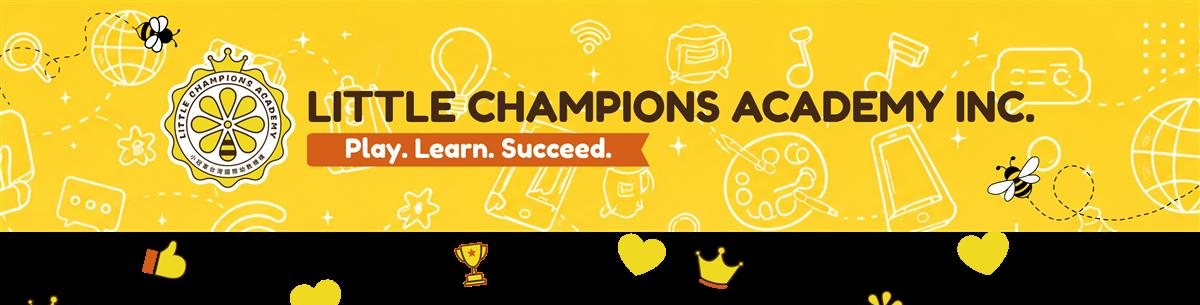
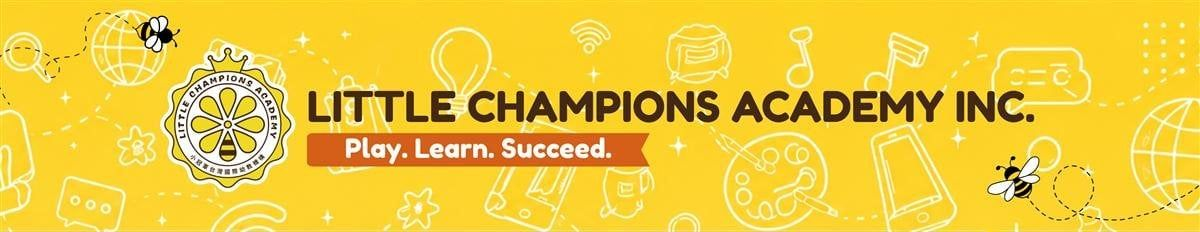
Updated the email message bg format 1.3

diff --git a/backend/utils/firstEnrollmentWelcomeEmail/emailBodies.js b/backend/utils/firstEnrollmentWelcomeEmail/emailBodies.js
@@ -5,9 +5,9 @@
  */
 import {
   escapeHtml,
+  getWelcomeEmailBackgroundUrl,
   plainTextToEmailHtml,
   wrapBrandedEmailHtml,
-  wrapWelcomePageEmailHtml,
 } from '../templateRenderService.js';
 import { groupChatFallbackText } from './branchGroupChat.js';
 
@@ -51,30 +51,10 @@ export function facebookPageUrl() {
 }
 
 /**
- * Minimal plain-text fallback for clients that strip HTML.
- * The designed welcome letter is the full-page image in the HTML body.
+ * Combined welcome letter. Academic year, first-day date, and class schedule
+ * come from the enrolled class when the send path supplies them.
  */
 export function buildOnboardingPlainText({
-  includeArAttachmentNote = false,
-} = {}) {
-  const lines = [
-    'Welcome to Little Champions Academy!',
-    '',
-    'Open this email in an HTML email client to view the welcome letter.',
-  ];
-
-  if (includeArAttachmentNote) {
-    lines.push(
-      '',
-      'Your acknowledgement receipt is attached to this email as a PDF for your records.'
-    );
-  }
-
-  return lines.join('\n');
-}
-
-/** @deprecated Long combined text body — retained for reference / legacy previews only. */
-export function buildLegacyCombinedOnboardingPlainText({
   academicYear,
   includeArAttachmentNote = false,
   classStartDateDisplay = 'To be announced',
@@ -317,11 +297,90 @@ export function buildFirstEnrollmentWelcomeHtml(options = {}) {
   return buildOnboardingHtml(options);
 }
 
+function nl2br(value) {
+  return escapeHtml(value).replace(/\n/g, '<br/>');
+}
+
 /**
- * Welcome email HTML: full-page image of LCA EMAIL.pdf (not PDF attachment).
+ * Welcome email HTML: letterhead image + letter text.
+ * Academic year, date, and class schedule are real text (not baked into the JPEG),
+ * so they follow the enrolled class.
  */
-export function buildOnboardingHtml(_options = {}) {
-  return wrapWelcomePageEmailHtml();
+export function buildOnboardingHtml({
+  academicYear,
+  includeArAttachmentNote = false,
+  classStartDateDisplay = 'To be announced',
+  classScheduleText = 'Please contact your branch for your class schedule.',
+  facebookUrl = facebookPageUrl(),
+  groupChatUrl = null,
+  groupChatLabel = 'Group Chat',
+} = {}) {
+  const year = escapeHtml(academicYear || academicYearLabel());
+  const dateLabel = escapeHtml(classStartDateDisplay || 'To be announced');
+  const scheduleHtml = nl2br(
+    classScheduleText || 'Please contact your branch for your class schedule.'
+  );
+  const fbUrl = escapeHtml(facebookUrl);
+  const groupChatHtml = groupChatUrl
+    ? `<a href="${escapeHtml(groupChatUrl)}" style="color:#1a56db;text-decoration:underline;">${escapeHtml(groupChatLabel)}</a> (${escapeHtml(groupChatUrl)})`
+    : escapeHtml(groupChatFallbackText());
+  const arNote = includeArAttachmentNote
+    ? `<p style="margin:16px 0 0;color:#111827;line-height:1.5;">Your acknowledgement receipt is attached to this email as a PDF for your records.</p>`
+    : '';
+  const bannerUrl = escapeHtml(getWelcomeEmailBackgroundUrl());
+
+  return `<!DOCTYPE html>
+<html>
+  <head>
+    <meta charset="UTF-8">
+    <meta name="viewport" content="width=device-width, initial-scale=1.0">
+  </head>
+  <body style="margin:0;padding:0;background-color:#f3f4f6;font-family:Arial,Helvetica,sans-serif;color:#111827;">
+    <table role="presentation" width="100%" cellpadding="0" cellspacing="0" style="background-color:#f3f4f6;padding:16px 0;">
+      <tr>
+        <td align="center">
+          <table role="presentation" width="600" cellpadding="0" cellspacing="0" style="width:100%;max-width:600px;background-color:#ffffff;border:1px solid #e5e7eb;">
+            <tr>
+              <td style="padding:0;line-height:0;font-size:0;background-color:#F7C844;">
+                <img src="${bannerUrl}" alt="Little Champions Academy Inc." width="600" style="display:block;width:100%;max-width:600px;height:auto;border:0;" />
+              </td>
+            </tr>
+            <tr>
+              <td style="padding:22px 28px 28px;font-size:14px;line-height:1.55;color:#111827;">
+                <p style="margin:0 0 10px;font-weight:bold;">Congratulations!</p>
+                <p style="margin:0 0 10px;">We are pleased to inform you that your child is officially enrolled at Little Champions Academy Inc. for Academic Year ${year}.</p>
+                <p style="margin:0 0 10px;">We are delighted to welcome you to the Little Champions family! We look forward to partnering with you in creating a meaningful and exciting learning journey filled with opportunities to play, learn, and succeed.</p>
+                <p style="margin:0 0 10px;">Thank you for choosing Little Champions Academy. We are excited to have you with us!</p>
+                <p style="margin:0;">Welcome to Little Champions Academy!</p>
+                ${arNote}
+                <p style="margin:18px 0 10px;border-top:1px solid #111827;"></p>
+                <p style="margin:0 0 8px;font-weight:bold;">FIRST DAY OF SCHOOL</p>
+                <p style="margin:0 0 4px;">Date: ${dateLabel}</p>
+                <p style="margin:0 0 10px;">Class Schedule: ${scheduleHtml}</p>
+                <p style="margin:0 0 10px;">Important: Please arrive at least 10 minutes before your scheduled class time to allow your child sufficient time to settle in and prepare for class.</p>
+                <p style="margin:0;">For dismissal, parents or authorized guardians are requested to arrive 10 minutes before the scheduled end of class to ensure a smooth and orderly pick-up.</p>
+                <p style="margin:18px 0 10px;border-top:1px solid #111827;"></p>
+                <p style="margin:0 0 8px;font-weight:bold;">THINGS TO PREPARE FOR CLASS</p>
+                <p style="margin:0 0 8px;">Please ensure that your child brings the following:</p>
+                <p style="margin:0;">1. Extra set of clothes<br/>2. Hygiene Kit (Wet wipes, alcohol, tissue, soap)<br/>3. Dry, healthy, and nutritious snack<br/>4. A refillable and sealed water bottle labeled with your child’s complete name</p>
+                <p style="margin:18px 0 10px;border-top:1px solid #111827;"></p>
+                <p style="margin:0 0 8px;font-weight:bold;">IMPORTANT REMINDERS</p>
+                <p style="margin:0;">• Please ensure that your child arrives at least 10 minutes before the scheduled class time.<br/>• Please prepare all necessary school items before leaving home to avoid delays.<br/>• Kindly label all personal belongings with your child’s complete name.<br/>• Please ensure that your child is well-rested and prepared to participate in class.<br/>• Please regularly check the official class group chat for announcements, reminders, and other important information.<br/>• Kindly complete the required onboarding requirements before your child’s first day of school.</p>
+                <p style="margin:18px 0 10px;border-top:1px solid #111827;"></p>
+                <p style="margin:0 0 8px;font-weight:bold;">STAY CONNECTED</p>
+                <p style="margin:0 0 8px;">For the latest updates, you can also follow and message our official Facebook page and group chat:</p>
+                <p style="margin:0 0 8px;">Facebook page link: <a href="${fbUrl}" style="color:#1a56db;text-decoration:underline;">Little Champions Academy Inc.</a></p>
+                <p style="margin:0 0 10px;">Group Chat: ${groupChatHtml}</p>
+                <p style="margin:0 0 10px;">Once again, welcome to Little Champions Academy, Inc. We look forward to partnering with you throughout the academic year and supporting your child’s continued learning and development.</p>
+                <p style="margin:0;">Sincerely,<br/>Little Champions Academy, Inc.<br/>Play. Learn. Succeed.</p>
+              </td>
+            </tr>
+          </table>
+        </td>
+      </tr>
+    </table>
+  </body>
+</html>`;
 }
 
 export function buildClassScheduleHtml(context = {}) {

diff --git a/backend/utils/firstEnrollmentWelcomeEmail/defaultTemplates.js b/backend/utils/firstEnrollmentWelcomeEmail/defaultTemplates.js
@@ -18,11 +18,44 @@ export const FIRST_ENROLLMENT_TEMPLATE_KEYS = Object.freeze({
   stay_connected: 'template_first_enrollment_stay_connected',
 });
 
-/** Combined welcome email — body is visual (page image); Settings text is a short fallback note. */
+/** Combined welcome email body (all sections). Send-time HTML is built in emailBodies.js so class fields stay dynamic. */
 export const COMBINED_ONBOARDING_BODY =
-  'Welcome to Little Champions Academy!\n\n' +
-  'Open this email in an HTML email client to view the welcome letter.\n' +
-  '{arAttachmentNote}';
+  'Congratulations!\n\n' +
+  'We are pleased to inform you that your child is officially enrolled at Little Champions Academy Inc. for Academic Year {academicYear}.\n\n' +
+  'We are delighted to welcome you to the Little Champions family! We look forward to partnering with you in creating a meaningful and exciting learning journey filled with opportunities to play, learn, and succeed.\n\n' +
+  'Thank you for choosing Little Champions Academy. We are excited to have you with us!\n\n' +
+  'Welcome to Little Champions Academy!\n' +
+  '{arAttachmentNote}\n\n' +
+  '────────────────────────\n\n' +
+  'FIRST DAY OF SCHOOL\n\n' +
+  'Date: {classStartDate}\n\n' +
+  'Class Schedule: {classSchedule}\n\n' +
+  'Important: Please arrive at least 10 minutes before your scheduled class time to allow your child sufficient time to settle in and prepare for class.\n\n' +
+  'For dismissal, parents or authorized guardians are requested to arrive 10 minutes before the scheduled end of class to ensure a smooth and orderly pick-up.\n\n' +
+  '────────────────────────\n\n' +
+  'THINGS TO PREPARE FOR CLASS\n\n' +
+  'Please ensure that your child brings the following:\n\n' +
+  '1. Extra set of clothes\n\n' +
+  '2. Hygiene Kit (Wet wipes, alcohol, tissue, soap)\n\n' +
+  '3. Dry, healthy, and nutritious snack\n\n' +
+  '4. A refillable and sealed water bottle labeled with your child’s complete name\n\n' +
+  '────────────────────────\n\n' +
+  'IMPORTANT REMINDERS\n\n' +
+  '• Please ensure that your child arrives at least 10 minutes before the scheduled class time.\n\n' +
+  '• Please prepare all necessary school items before leaving home to avoid delays.\n\n' +
+  '• Kindly label all personal belongings with your child’s complete name.\n\n' +
+  '• Please ensure that your child is well-rested and prepared to participate in class.\n\n' +
+  '• Please regularly check the official class group chat for announcements, reminders, and other important information.\n\n' +
+  '• Kindly complete the required onboarding requirements before your child’s first day of school.\n\n' +
+  '────────────────────────\n\n' +
+  'STAY CONNECTED\n\n' +
+  'For the latest updates, you can also follow and message our official Facebook page and group chat:\n\n' +
+  'Facebook page link: Little Champions Academy Inc. ({facebookUrl})\n\n' +
+  '{groupChatLine}\n\n' +
+  'Once again, welcome to Little Champions Academy, Inc. We look forward to partnering with you throughout the academic year and supporting your child’s continued learning and development.\n\n' +
+  'Sincerely,\n\n' +
+  'Little Champions Academy, Inc.\n\n' +
+  'Play. Learn. Succeed.';
 
 export const FIRST_ENROLLMENT_TEMPLATE_DEFAULTS = Object.freeze({
   [FIRST_ENROLLMENT_TEMPLATE_KEYS.onboarding]: {

diff --git a/backend/utils/templateRenderService.js b/backend/utils/templateRenderService.js
@@ -13,23 +13,40 @@ const MANILA_TZ = 'Asia/Manila';
 /** Space-encoded filename — works on cms.little-champion.com; hyphen-only path returns SPA HTML there. */
 const DEFAULT_LOGO_PATH = '/LCA%20Icon.png';
 const DEFAULT_EMAIL_LOGO_ORIGIN = 'https://cms.little-champion.com';
-/** CMS SPA origins by environment (letterhead <img> for welcome email). */
+/** CMS SPA origins (frontend static assets / logos). */
 const CMS_ORIGIN_DEVELOPMENT = 'https://cms.lca-app.com';
 const CMS_ORIGIN_PRODUCTION = 'https://cms.little-champion.com';
+/**
+ * Backend API origins for public email-asset routes.
+ * Coolify: SPA is cms.lca-app.com; API is api-cms.lca-app.com (do not use SPA host for /api/sms).
+ * Linode prod: API is proxied on cms.little-champion.com/api/sms.
+ */
+const CMS_API_ORIGIN_DEVELOPMENT = 'https://api-cms.lca-app.com';
+const CMS_API_ORIGIN_PRODUCTION = 'https://cms.little-champion.com';
 /** Compressed letterhead derived from frontend/public/quar.png (welcome email background). */
 const WELCOME_EMAIL_BG_PATH = '/lca-welcome-email-bg.jpg';
 
 /**
- * CMS origin for public email assets.
+ * CMS SPA origin (logos / public frontend files).
  * development → https://cms.lca-app.com
  * production  → https://cms.little-champion.com
  */
 export function getCmsOriginForEnv() {
-  const fromEnv = String(process.env.EMAIL_WELCOME_ASSET_ORIGIN || '').trim().replace(/\/$/, '');
-  if (fromEnv) return fromEnv;
   return process.env.NODE_ENV === 'production'
     ? CMS_ORIGIN_PRODUCTION
     : CMS_ORIGIN_DEVELOPMENT;
+}
+
+/**
+ * Backend API origin for /api/sms/public/email-assets/*.
+ * Override with EMAIL_WELCOME_ASSET_ORIGIN when needed.
+ */
+export function getCmsApiOriginForEnv() {
+  const fromEnv = String(process.env.EMAIL_WELCOME_ASSET_ORIGIN || '').trim().replace(/\/$/, '');
+  if (fromEnv) return fromEnv;
+  return process.env.NODE_ENV === 'production'
+    ? CMS_API_ORIGIN_PRODUCTION
+    : CMS_API_ORIGIN_DEVELOPMENT;
 }
 
 /**
@@ -112,16 +129,16 @@ function getPublicEmailAssetsBaseUrl() {
     return apiBase.endsWith('/api/sms') ? apiBase : `${apiBase}/api/sms`;
   }
 
-  // NODE_ENV=development → cms.lca-app.com
-  // NODE_ENV=production  → cms.little-champion.com
-  return `${getCmsOriginForEnv()}/api/sms`;
+  // development → api-cms.lca-app.com (Coolify API)
+  // production  → cms.little-champion.com (nginx proxies /api/sms)
+  return `${getCmsApiOriginForEnv()}/api/sms`;
 }
 
 /** Absolute URL for the welcome-email letterhead <img> (cropped quar header). */
 export function getWelcomeEmailBackgroundUrl() {
   const fromEnv = String(process.env.EMAIL_WELCOME_BACKGROUND_URL || '').trim();
   if (fromEnv) return fromEnv;
-  return `${getPublicEmailAssetsBaseUrl()}/public/email-assets/welcome-letterhead.jpg`;
+  return `${getPublicEmailAssetsBaseUrl()}/public/email-assets/welcome-letterhead.jpg?v=2`;
 }
 
 /**

diff --git a/backend/utils/firstEnrollmentWelcomeEmail/classContext.js b/backend/utils/firstEnrollmentWelcomeEmail/classContext.js
@@ -41,6 +41,20 @@ function resolvePhaseNumber(raw) {
   return Number.isInteger(phase) && phase >= 1 ? phase : 1;
 }
 
+/**
+ * Manila school year runs June → May.
+ * June 2026 → 2026–2027; January 2027 → 2026–2027.
+ */
+export function academicYearFromStartYmd(ymd) {
+  const match = String(ymd || '').match(/^(\d{4})-(\d{2})-/);
+  if (!match) return null;
+  const year = Number(match[1]);
+  const month = Number(match[2]);
+  if (!year || month < 1 || month > 12) return null;
+  if (month >= 6) return `${year}–${year + 1}`;
+  return `${year - 1}–${year}`;
+}
+
 export function formatClassScheduleText(schedules = []) {
   const sorted = sortSchedules(schedules.filter((r) => r?.day_of_week));
   if (!sorted.length) {
@@ -117,8 +131,10 @@ async function loadSchedulesForClass(client, classId, phaseNumber = 1) {
  *   branchName: string,
  *   branchNickname: string,
  *   enrolledPhaseNumber: number,
+ *   classStartYmd: string|null,
  *   classStartDateDisplay: string,
  *   classScheduleText: string,
+ *   academicYear: string|null,
  * }|null>}
  */
 export async function loadEnrollmentClassContext(classstudentId) {
@@ -162,8 +178,10 @@ export async function loadEnrollmentClassContext(classstudentId) {
       branchName: row.branch_name || '',
       branchNickname: row.branch_nickname || '',
       enrolledPhaseNumber,
+      classStartYmd: phaseStartYmd,
       classStartDateDisplay: formatDateDisplay(phaseStartYmd),
       classScheduleText: formatClassScheduleText(schedules),
+      academicYear: academicYearFromStartYmd(phaseStartYmd),
     };
   } finally {
     client.release();

diff --git a/backend/utils/firstEnrollmentWelcomeEmail/templateConfig.js b/backend/utils/firstEnrollmentWelcomeEmail/templateConfig.js
@@ -124,13 +124,13 @@ export async function resolveSequenceEmailContent({
             source: 'settings_disabled',
           };
         }
-        const imageBody = buildSequenceEmail('onboarding', context);
+        const letter = buildSequenceEmail('onboarding', context);
         return {
           enabled: true,
-          subject: tpl.subject || imageBody.subject,
-          html: imageBody.html,
-          plainText: imageBody.plainText,
-          source: 'welcome_page_image',
+          subject: tpl.subject || letter.subject,
+          html: letter.html,
+          plainText: letter.plainText,
+          source: 'welcome_class_fields',
         };
       }
 

diff --git a/backend/utils/firstEnrollmentWelcomeEmail/index.js b/backend/utils/firstEnrollmentWelcomeEmail/index.js
@@ -353,7 +353,7 @@ export async function maybeSendFirstEnrollmentWelcomeEmail({
     (await loadEnrollmentClassContextForStudent(sid));
 
   const arBundle = await buildWelcomeArAttachments(sid, { invoiceId, ackReceiptId });
-  const year = academicYearLabel();
+  const year = classContext?.academicYear || academicYearLabel();
   const groupChat = resolveBranchGroupChat({
     branchId: classContext?.branchId ?? null,
     branchName: classContext?.branchName,

diff --git a/backend/utils/firstEnrollmentWelcomeEmail/README.md b/backend/utils/firstEnrollmentWelcomeEmail/README.md
@@ -6,11 +6,21 @@ Sends a **single email** when a student is **first officially enrolled** (`progr
 
 | Part | Content |
 |------|---------|
-| HTML body | Full-page **image** of the designed welcome letter (`LCA EMAIL.pdf` rasterized to JPEG) |
-| Plain text | Short fallback for clients that strip HTML |
-| Attachment | Optional **AR PDF** only (acknowledgement receipt) — never `LCA EMAIL.pdf` |
+| Header | Yellow letterhead image |
+| Body | Welcome letter text. **Academic Year**, **Date**, and **Class Schedule** come from the enrolled class |
+| Attachment | Optional **AR PDF** only |
 
-Gmail and most clients **cannot display a PDF inside the message body**. Attaching the PDF would only show a downloadable file. The welcome design is therefore shipped as a JPEG `<img>`.
+Gmail cannot display a PDF in the message body. The yellow letterhead is an image; the letter text is HTML so Academic Year, first-day date, and class schedule can change per enrollment.
+
+## Dynamic class fields
+
+| Field | Source |
+|-------|--------|
+| Academic Year | Enrolled class first session date. Manila school year is June–May (June 2026 → `2026–2027`). Falls back to `FIRST_ENROLLMENT_WELCOME_ACADEMIC_YEAR` when no class date exists. |
+| Date | First session of the enrolled phase (`classsessionstbl`), else class `start_date` |
+| Class Schedule | `roomschedtbl` for that class (days and times) |
+
+A preview sent to an address that is **not** a student has no class, so Date and Class Schedule stay “To be announced”.
 
 ## Welcome page image
 
@@ -24,8 +34,10 @@ After deploying the matching backend, confirm the image opens in a browser:
 
 | `NODE_ENV` | Welcome page URL |
 |------------|------------------|
-| `development` | `https://cms.lca-app.com/api/sms/public/email-assets/welcome-email.jpg` |
+| `development` | `https://api-cms.lca-app.com/api/sms/public/email-assets/welcome-email.jpg` |
 | `production` | `https://cms.little-champion.com/api/sms/public/email-assets/welcome-email.jpg` |
+
+On Coolify, **do not** use `cms.lca-app.com` for this path — that host is the SPA and returns HTML (broken image in Gmail). Use the API host `api-cms.lca-app.com`.
 
 Env overrides (optional):
 

diff --git a/backend/routes/publicEmailAssets/README.md b/backend/routes/publicEmailAssets/README.md
@@ -18,5 +18,7 @@ Gmail cannot display a PDF in the message body. The welcome letter design
 
 Mounted at `/api/sms` → full URL examples:
 
-- Development: `https://cms.lca-app.com/api/sms/public/email-assets/welcome-email.jpg`
-- Production: `https://cms.little-champion.com/api/sms/public/email-assets/welcome-email.jpg`
+- Development (Coolify API): `https://api-cms.lca-app.com/api/sms/public/email-assets/welcome-email.jpg`
+- Production (Linode): `https://cms.little-champion.com/api/sms/public/email-assets/welcome-email.jpg`
+
+Do not use `cms.lca-app.com` for these URLs — that is the frontend SPA and returns `text/html`.
